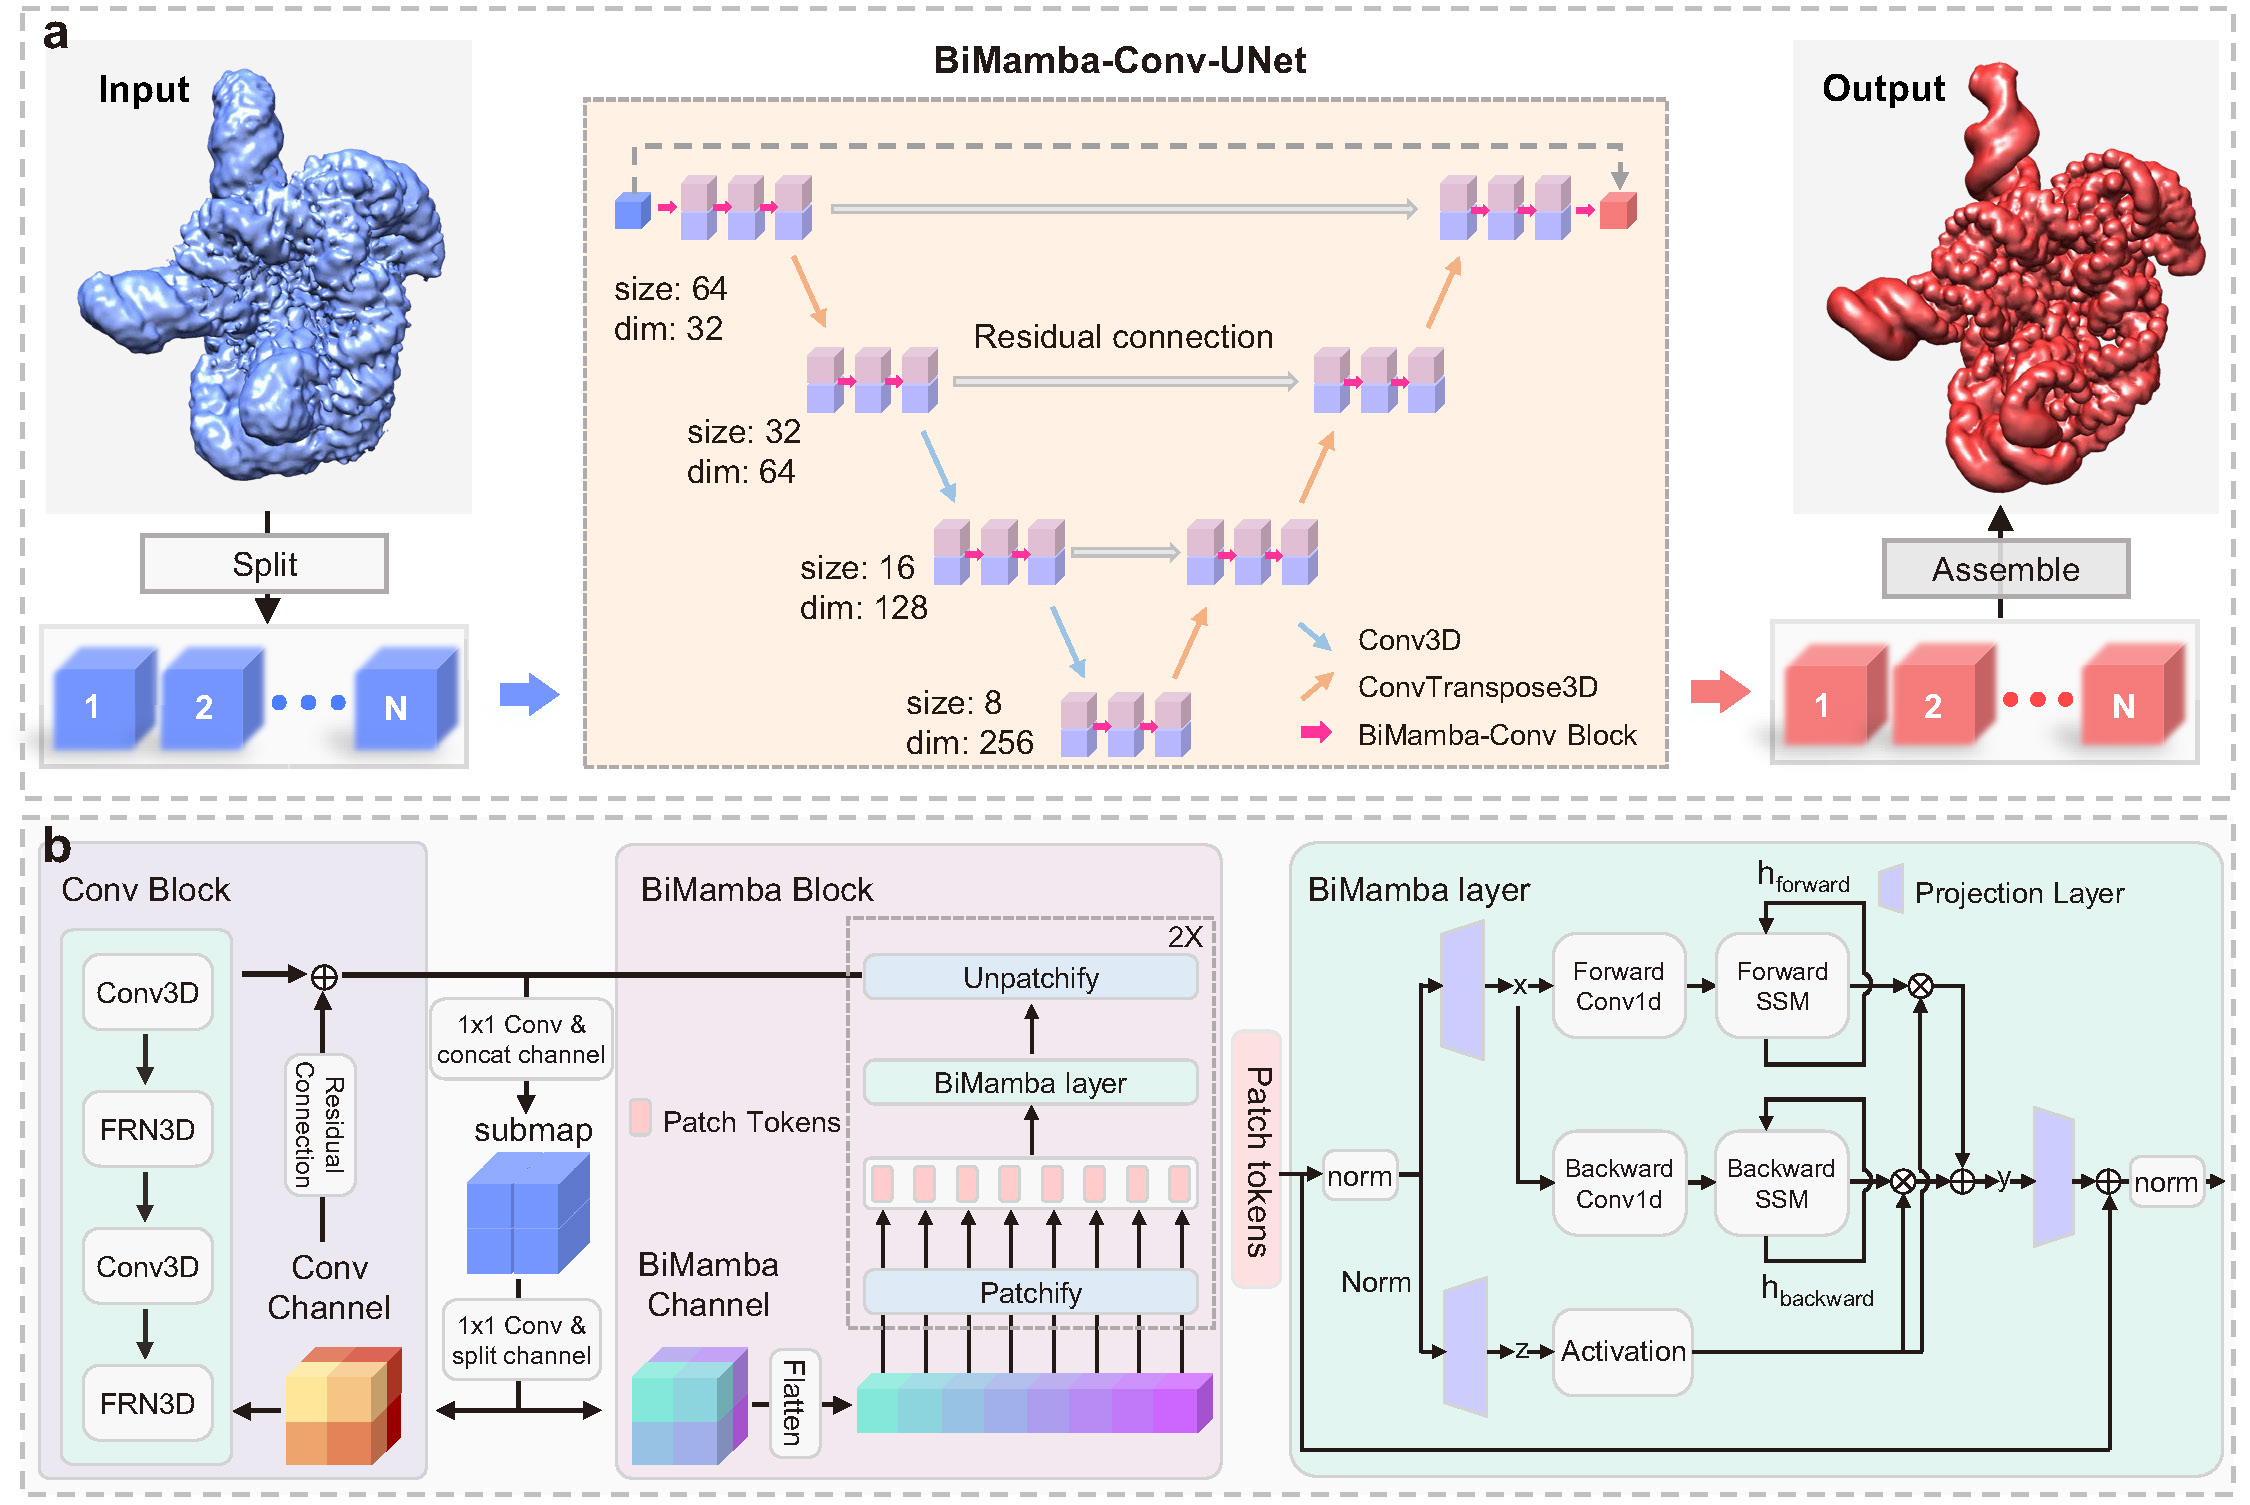
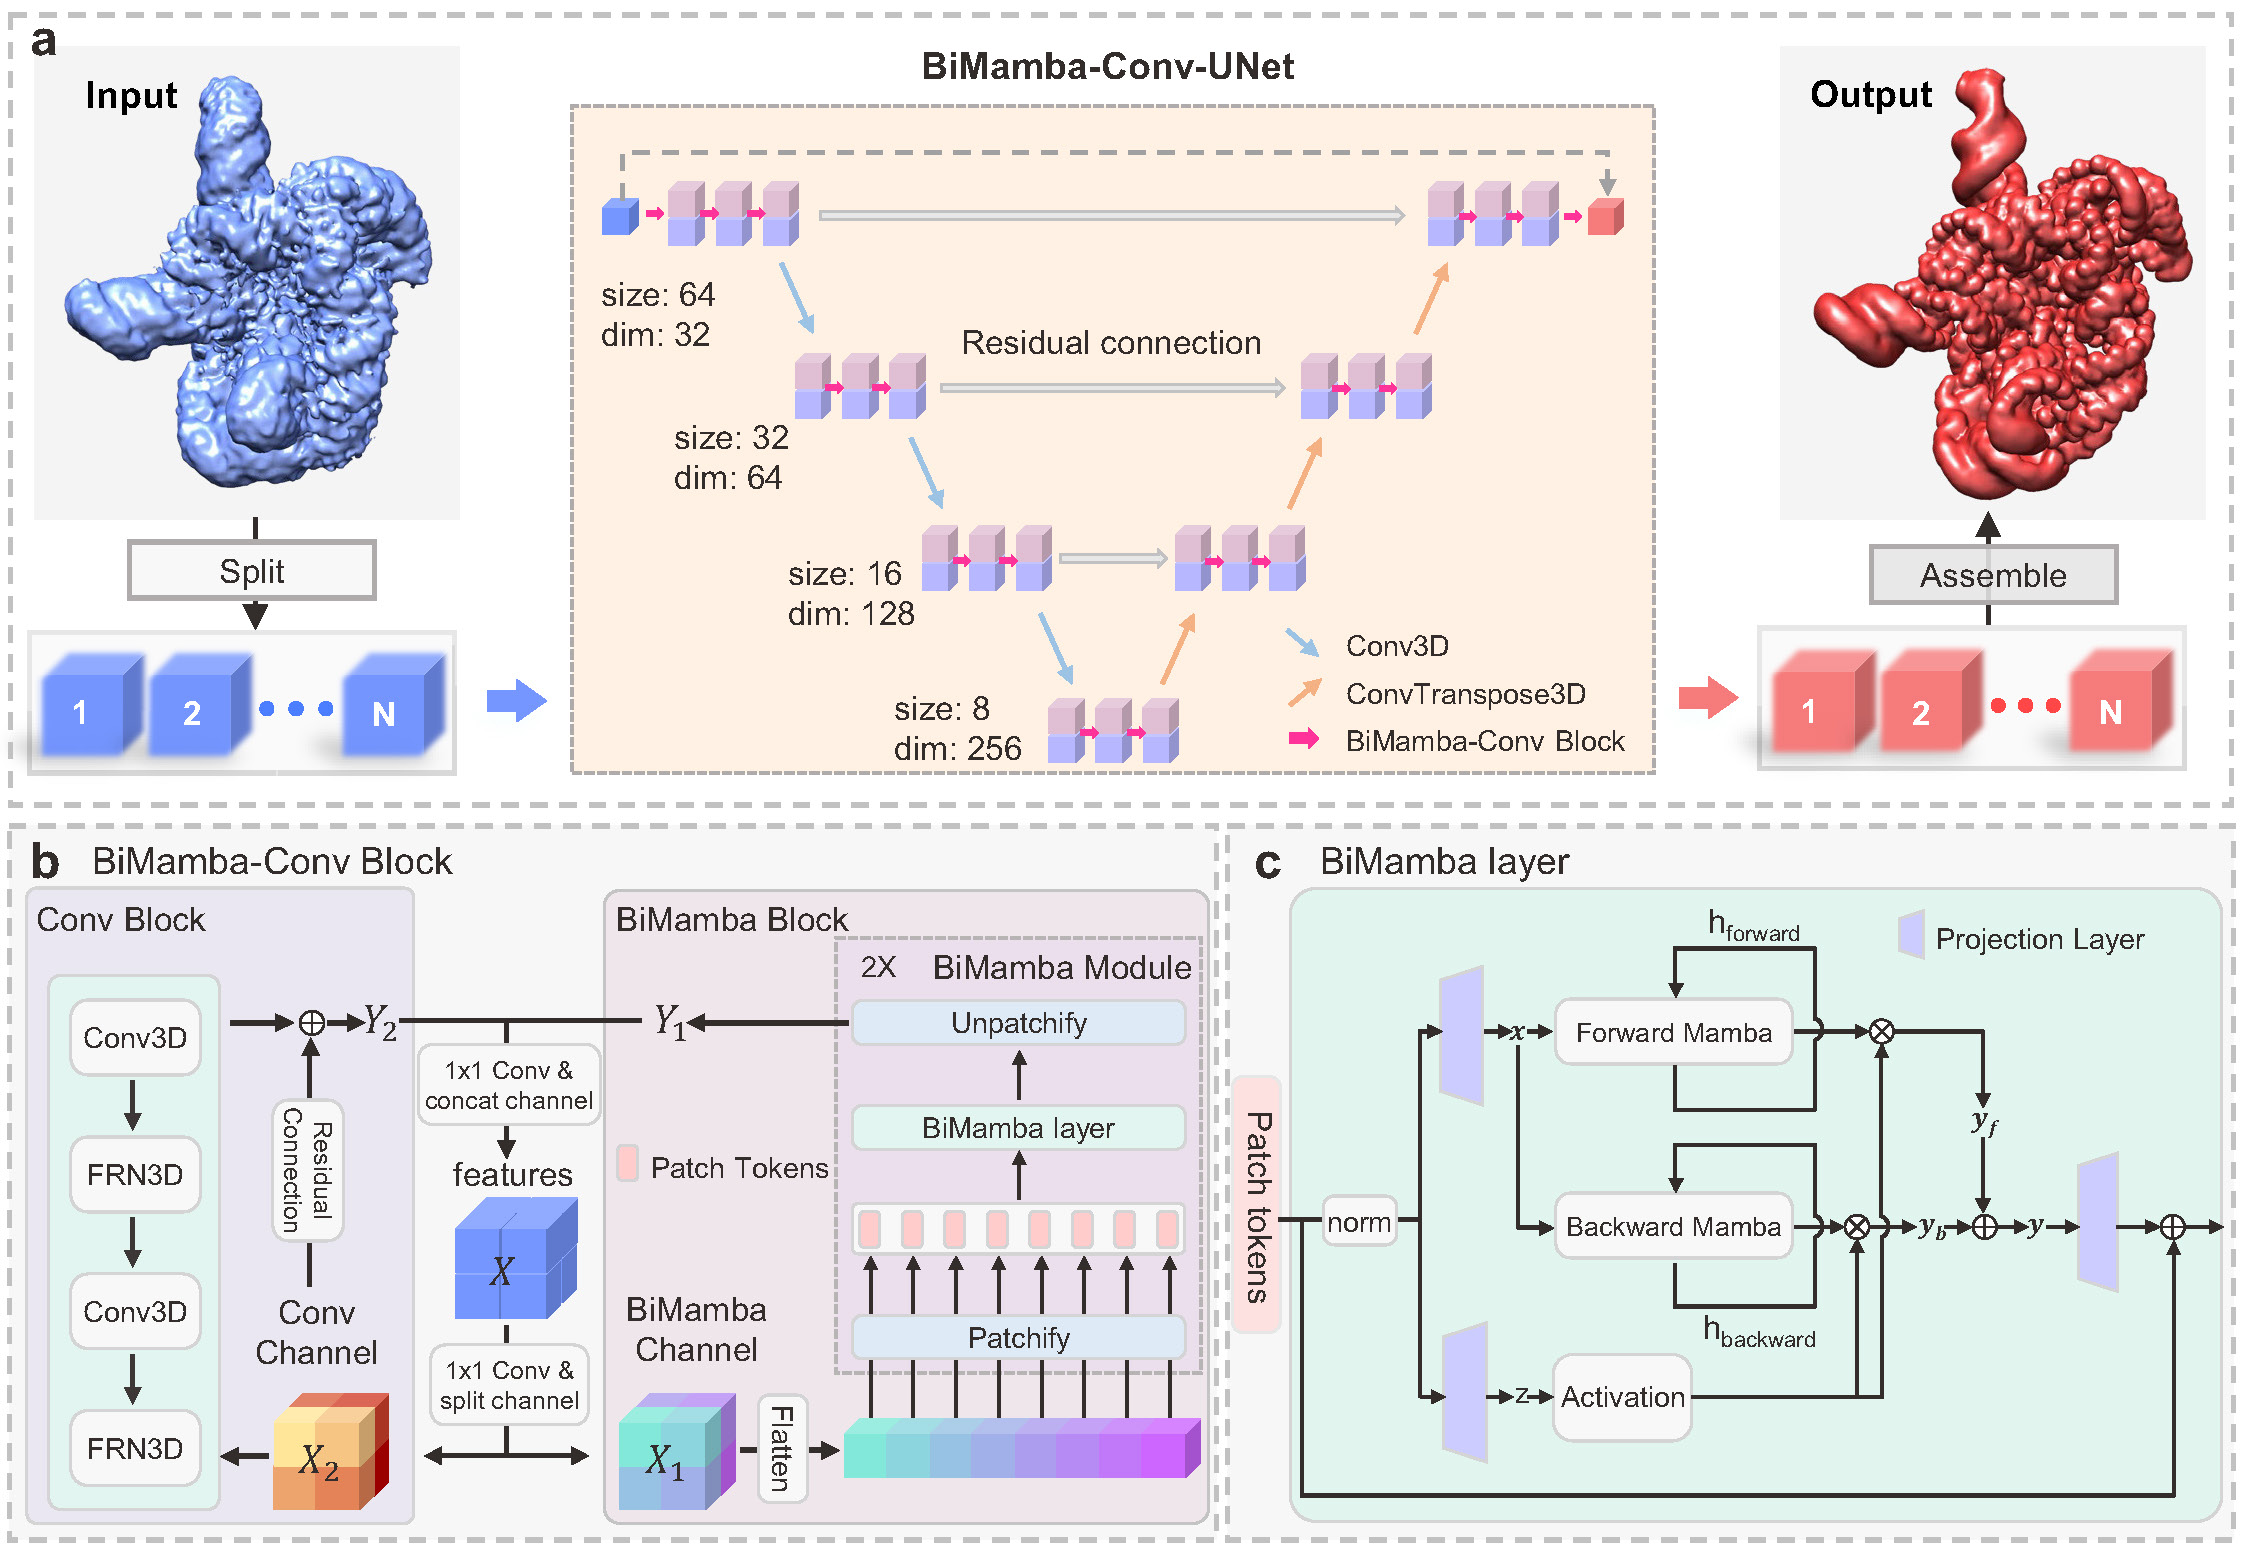
EMReady2 init commit

Changed region(s): [[0.0, 0.0, 0.9956, 0.9993]]

diff --git a/bimcunet.py b/bimcunet.py
@@ -21,9 +21,9 @@
 # LIABILITY, WHETHER IN AN ACTION OF CONTRACT, TORT OR OTHERWISE, ARISING FROM,
 # OUT OF OR IN CONNECTION WITH THE SOFTWARE OR THE USE OR OTHER DEALINGS IN THE
 # SOFTWARE.
-
 import torch
 import torch.nn as nn
+
 from einops import rearrange
 from monai.networks.layers.utils import get_act_layer, get_norm_layer
 from frn import FilterResponseNorm3d

diff --git a/interp.py b/interp.py
@@ -21,7 +21,6 @@
 # LIABILITY, WHETHER IN AN ACTION OF CONTRACT, TORT OR OTHERWISE, ARISING FROM,
 # OUT OF OR IN CONNECTION WITH THE SOFTWARE OR THE USE OR OTHER DEALINGS IN THE
 # SOFTWARE.
-
 import argparse
 import utils
 

diff --git a/interp3d.py b/interp3d.py
@@ -21,7 +21,6 @@
 # LIABILITY, WHETHER IN AN ACTION OF CONTRACT, TORT OR OTHERWISE, ARISING FROM,
 # OUT OF OR IN CONNECTION WITH THE SOFTWARE OR THE USE OR OTHER DEALINGS IN THE
 # SOFTWARE.
-
 import numpy as np
 from numba import jit, prange
 

diff --git a/pred.py b/pred.py
@@ -21,7 +21,6 @@
 # LIABILITY, WHETHER IN AN ACTION OF CONTRACT, TORT OR OTHERWISE, ARISING FROM,
 # OUT OF OR IN CONNECTION WITH THE SOFTWARE OR THE USE OR OTHER DEALINGS IN THE
 # SOFTWARE.
-
 import os
 import torch
 import argparse

diff --git a/utils.py b/utils.py
@@ -21,7 +21,6 @@
 # LIABILITY, WHETHER IN AN ACTION OF CONTRACT, TORT OR OTHERWISE, ARISING FROM,
 # OUT OF OR IN CONNECTION WITH THE SOFTWARE OR THE USE OR OTHER DEALINGS IN THE
 # SOFTWARE.
-
 import mrcfile
 import numpy as np
 from interp3d import Interp3D

diff --git a/README.md b/README.md
@@ -1,8 +1,8 @@
-# EMReady_mamba
+# EMReady2
 
 ## 📄 Overview
 
-Universal improvement of cryo-EM and cryo-ET maps  by fast quality-aware deep learning with Mamba
+Improvement of cryo-EM and cryo-ET maps by local quality-aware deep learning with Mamba
 
 <a href="#"><img src="https://img.shields.io/badge/Linux-Tested-yellow?logo=Linux&style=for-the-badge"/></a>  <a href="https://mit-license.org/"><img src="https://img.shields.io/badge/MIT-LICENSE-purple?logo=conventionalcommits&style=for-the-badge"/></a>
 
@@ -26,18 +26,18 @@ Copyright (C) 2025 Hong Cao, Yueting Zhu, Tao Li, Ji Chen, Jiahua He, Xinggang W
 
 ## ⚡ Installation
 
-### 1. Download EMReady
+### 1. Download EMReady2
 
-Download EMReady via github
+Download EMReady2 via github
 ```
-git clone https://github.com/huang-laboratory/EMReady-Mamba.git
-cd EMReady-Mamba
+git clone https://github.com/huang-laboratory/EMReady2.git
+cd EMReady2
 ```
 
 ### 2. Create conda environment
 ```
-conda create -n emready_mamba python==3.10
-conda activate emready_mamba
+conda create -n emready2 python==3.10
+conda activate emready2
 ```
 
 ### 3. Install packages
@@ -79,34 +79,34 @@ pip install causal_conv1d-1.4.0_xxx.whl
 pip install mamba_ssm-2.2.2_xxx.whl
 ```
 
-### 5. Set the EMReady.sh
-Set **"EMReady_home"** to the root directory of EMReady_mamba, for example, if EMReady is unzipped to "/home/data/EMReady-Mamba", set `EMReady_home="/home/data/EMReady-Mamba"`
+### 5. Set the EMReady2.sh
+Set **"EMReady2_home"** to the root directory of EMReady2, for example, if EMReady2 is unzipped to "/home/data/EMReady2", set `EMReady2_home="/home/data/EMReady2"`
 
 Set **"active"** to path of conda activator, for example
 ```
-activate="/home/data/anaconda3/bin/activate
+activate="/home/data/anaconda3/bin/activate"
 ```
 
-set **"EMReady_env"** to name of the python conda virtual environment that have all the required packages installed. An conda environment named "emready_env" will be created using the quick installation command, so `EMReady_env="emready_mamba"`. If the environment is built with a different name, users should modify **"EMReady_env"** accordingly.
+set **"EMReady2_env"** to name of the python conda virtual environment that have all the required packages installed. An conda environment named "emready2" will be created using the quick installation command, so `EMReady2_env="emready2"`. If the environment is built with a different name, users should modify **"EMReady2_env"** accordingly.
 
 
 
 ## 🎯 Usage
-Running EMReady_mamba is very straight forward with one command like
+Running EMReady2 is very straight forward with one command like
 ```
-EMReady.sh in_map.mrc out_map.mrc [Options]
+EMReady2.sh in_map.mrc out_map.mrc [Options]
 ```
 Required arguments:
 ```     
 in_map.mrc:  File name of input EM density map in MRC2014 format.
-out_map.mrc:  File name of the output EMReady-processed density map.
+out_map.mrc:  File name of the output EMReady2-processed density map.
 ```
 
 Options:
 ```
 -g  GPU_ID:  ID(s) of GPU devices to use. e.g. '0' for GPU #0, and '2,3,6' for GPUs #2, #3, and #6. (default: '0')
 -s  STRIDE:  The step of the sliding window for cutting the input map into overlapping boxes. Its value should be an integer within [16,48]. (default: 16)
--b  BATCH_SIZE:  Number of boxes input into EMReady_mamba in one batch. (default: 16)
+-b  BATCH_SIZE:  Number of boxes input into EMReady2 in one batch. (default: 16)
 -m  MASK_MAP:  Input mask map in MRC2014 format. (default: None)
 -c  MASK_MAP_CONTOUR:  Set the contour level of the mask. (default: 0.0)
 -p  MASK_STRUCTURE:  Input structure mask files in PDB or CIF format (default: None)
@@ -120,8 +120,8 @@ Options:
 
 If you find our work useful, please cite our related paper:
 ```
-@article{EMReady_mamba_2025,
-	title = {Universal improvement of cryo-EM and cryo-ET maps  by fast quality-aware deep learning with Mamba},
+@article{EMReady2,
+	title = {Improvement of cryo-EM and cryo-ET maps by local quality-aware deep learning with Mamba},
 	author = {Hong Cao, Yueting Zhu, Tao Li, Ji Chen, Jiahua He, Xinggang Wang, Sheng-You Huang},
 	journal = {In submission},
 	year = {2025},